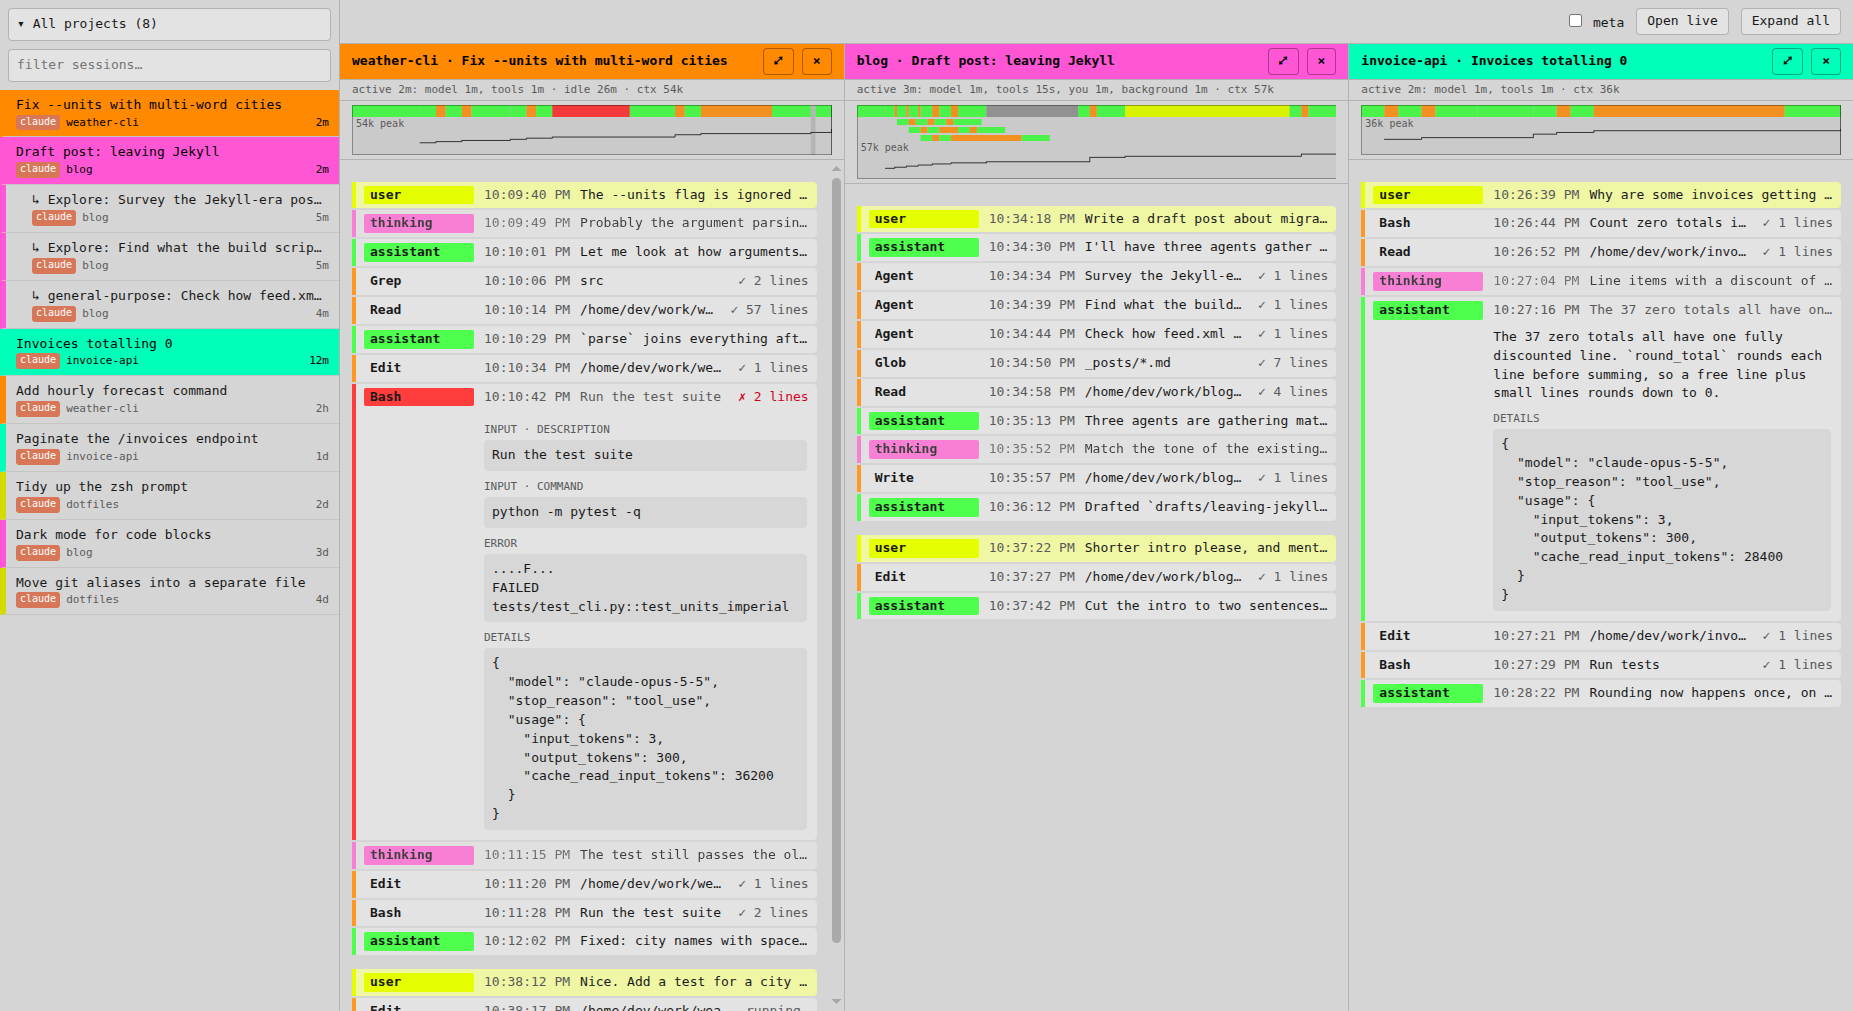
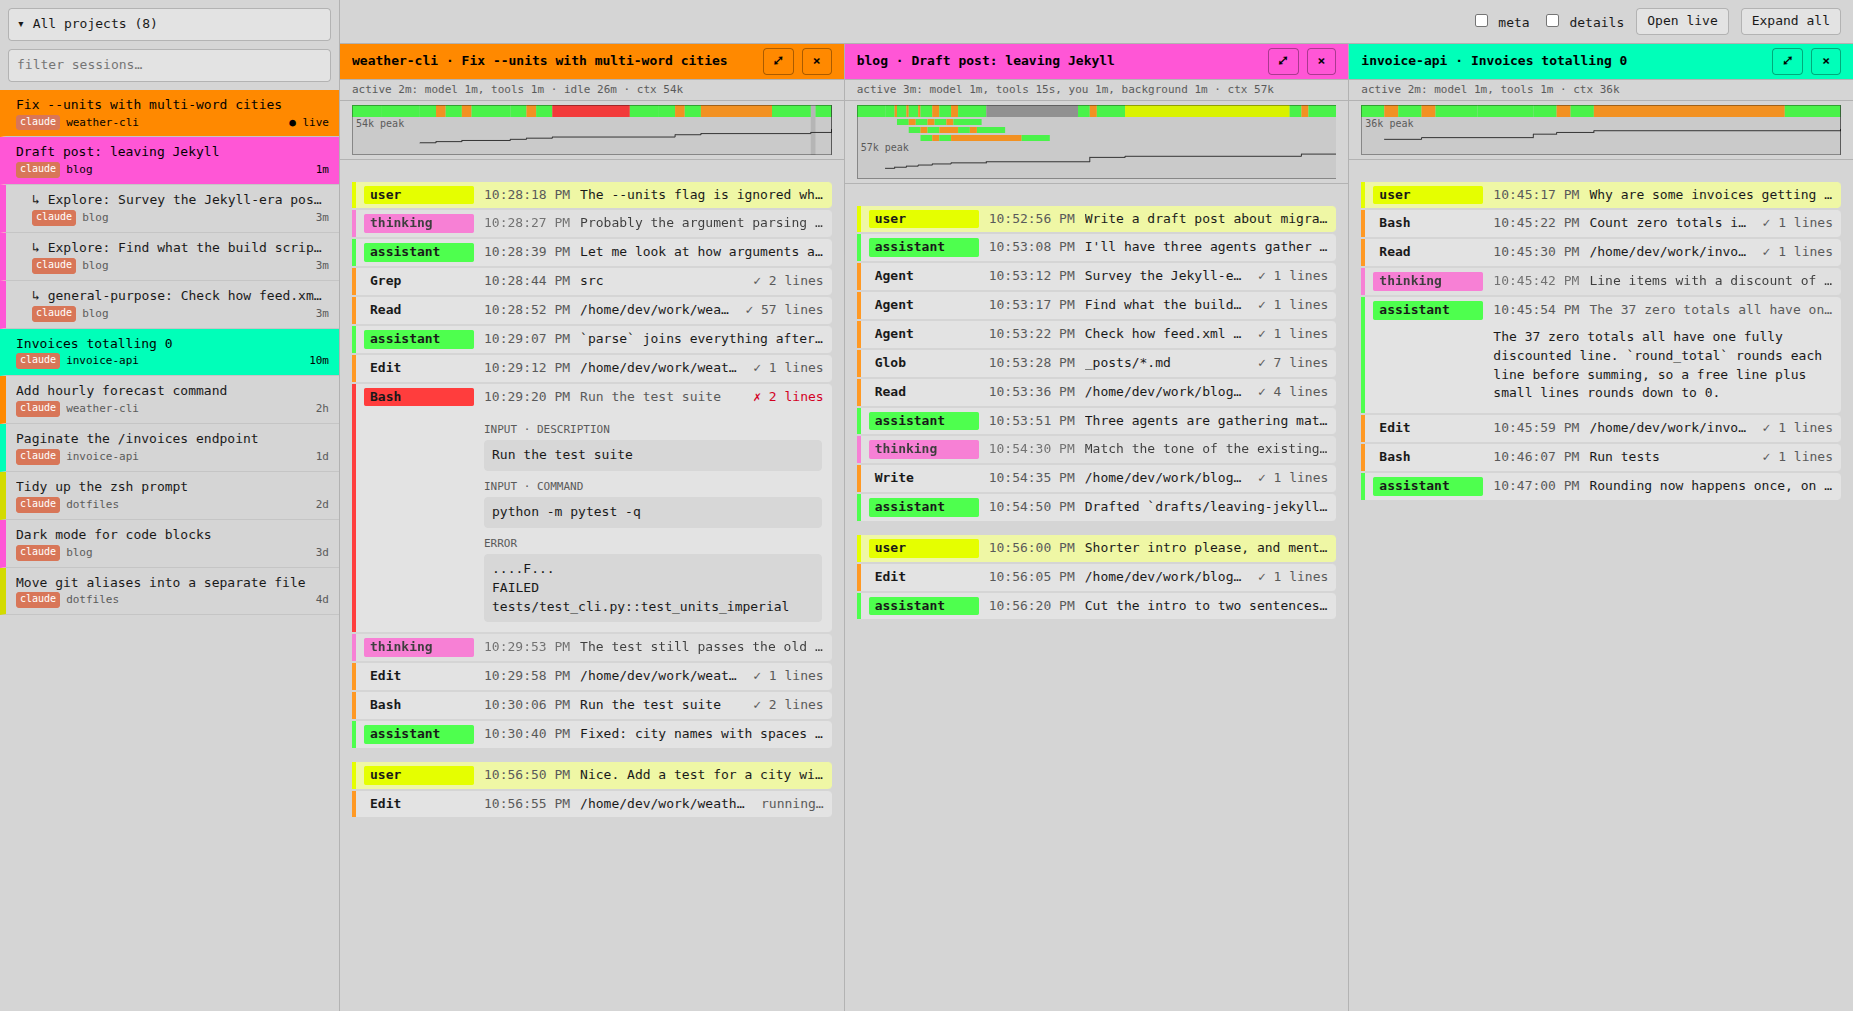
Details toggle: hide the metadata JSON in expanded rows unless ticked (#16)
Expanded rows end in a details section with the event's extra (model, usage,
stop reason) as JSON. It's now hidden unless the new details box is ticked,
except in rows with nothing else to show (most meta rows). README screenshot
retaken without it.

Closes #16

diff --git a/index.html b/index.html
@@ -73,6 +73,8 @@
   .ev.err { --k: #ff3b3b; }
   .ev.meta { display: none; opacity: .6; }
   .show-meta .ev.meta { display: block; }
+  .extra { display: none; }
+  .show-details .extra { display: block; }
   summary { display: flex; gap: 10px; padding: 4px 8px; cursor: pointer; list-style: none; }
   summary::-webkit-details-marker { display: none; }
   summary:hover { background: #0000000a; }
@@ -97,6 +99,7 @@
 <main>
   <header>
     <label><input type="checkbox" id="meta"> meta</label>
+    <label title="In expanded rows, also show the raw metadata: model, token usage, stop reason…"><input type="checkbox" id="details"> details</label>
     <button id="live" title="Open every running top-level session in the list; close the other panes">Open live</button>
     <button id="expand">Expand all</button>
   </header>
@@ -530,10 +533,10 @@ function row(e) {
 
 function body(e) {
   const b = el('div', 'body');
-  const sec = (label, v) => {
+  const sec = (label, v, cls = '') => {
     if (v == null || v === '') return;
-    if (label) b.append(el('h4', '', label));
-    b.append(el('pre', '', typeof v === 'string' ? v : JSON.stringify(v, null, 2)));
+    if (label) b.append(el('h4', cls, label));
+    b.append(el('pre', cls, typeof v === 'string' ? v : JSON.stringify(v, null, 2)));
   };
   sec(null, e.text);
   if (e.kind === 'tool') {
@@ -542,7 +545,8 @@ function body(e) {
     for (const [k, v] of input) sec('input · ' + k, v);
     sec(e.error ? 'error' : 'output', e.output ?? '(no result yet)');
   }
-  sec('details', e.extra);
+  // hidden unless the details box is ticked, except in rows with nothing else to show (most meta rows)
+  sec('details', e.extra, b.children.length ? 'extra' : '');
   return b;
 }
 
@@ -557,6 +561,7 @@ for (const grip of document.querySelectorAll('body > .grip')) {   // drag to set
   grip.onpointerup = () => grip.onpointermove = null;
 }
 $('meta').onchange = e => $('panes').classList.toggle('show-meta', e.target.checked);
+$('details').onchange = e => $('panes').classList.toggle('show-details', e.target.checked);
 $('live').onclick = openLive;
 document.addEventListener('keydown', ev => { if (ev.key === 'Escape' && focused) focus(null); });
 $('expand').onclick = () => {

diff --git a/AGENTS.md b/AGENTS.md
@@ -84,6 +84,8 @@ Focus is not in the hash.
 - **Startup line**: after binding, the server prints `listening on http://127.0.0.1:<port>` and flushes.
   `electron/main.js` parses the port from it, so keep the wording and the flush.
 - `meta` events (system reminders, hook output, attachments) are sent but hidden unless the meta box is ticked.
+- An expanded row's `details` section (`extra` as JSON) is hidden unless the details box is ticked (`show-details`),
+  except in rows with nothing else to show, which is most `meta` rows (issue #16).
 - **Where the time went** (issue #14): `walk()` turns a pane's events into segments, in the browser.
   Each gap between timestamps goes to what was pending when it began: a tool call (`AskUserQuestion` and
   `ExitPlanMode` count as you), else the model. After a turn ends (per format: `turnEnd`) the wait is yours if

diff --git a/README.md b/README.md
@@ -52,6 +52,7 @@ adding ATV to the application menu, see [electron/README.md](electron/README.md)
 - **Live**: every open session is tailed every 1.5s and follows the bottom unless you scroll that column up.
   **Open live** opens every session still running (within the project filter and search) and closes the rest.
 - **meta** shows the background records hidden by default: system reminders, hook output, attachments.
+- **details** adds each expanded line's raw metadata (model, token usage, stop reason) as JSON.
 
 ## Where it looks
 
